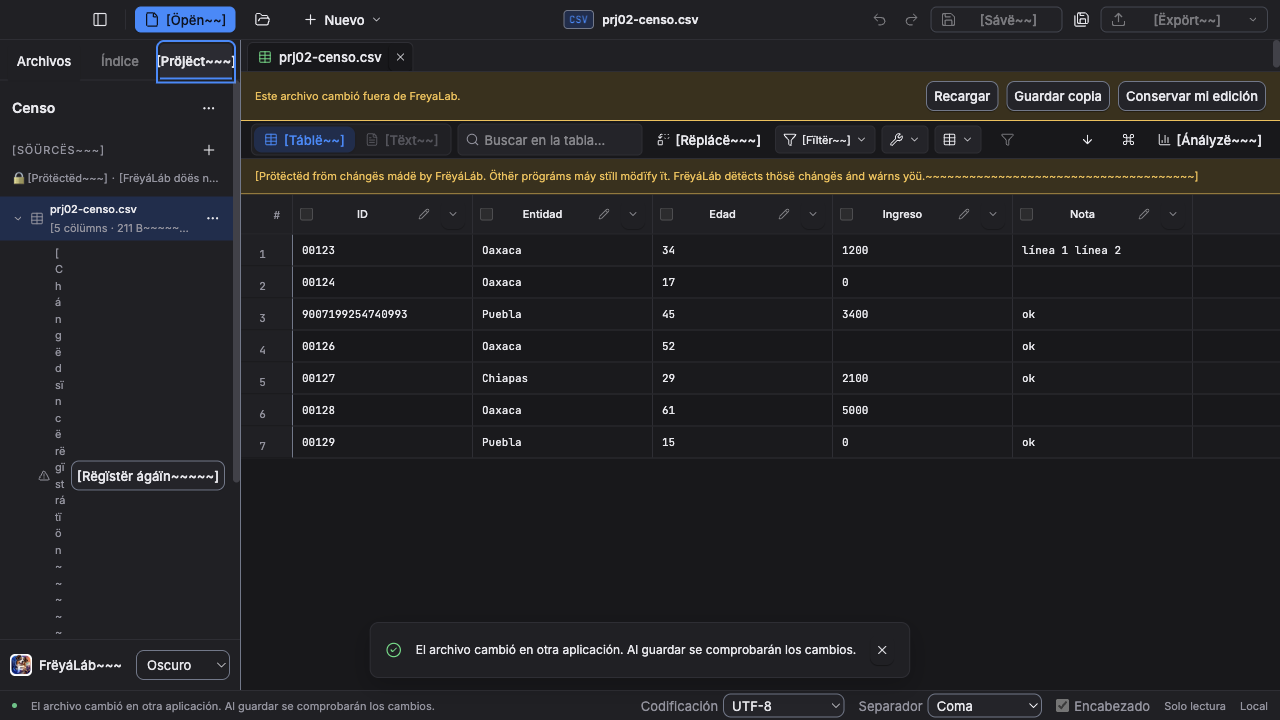
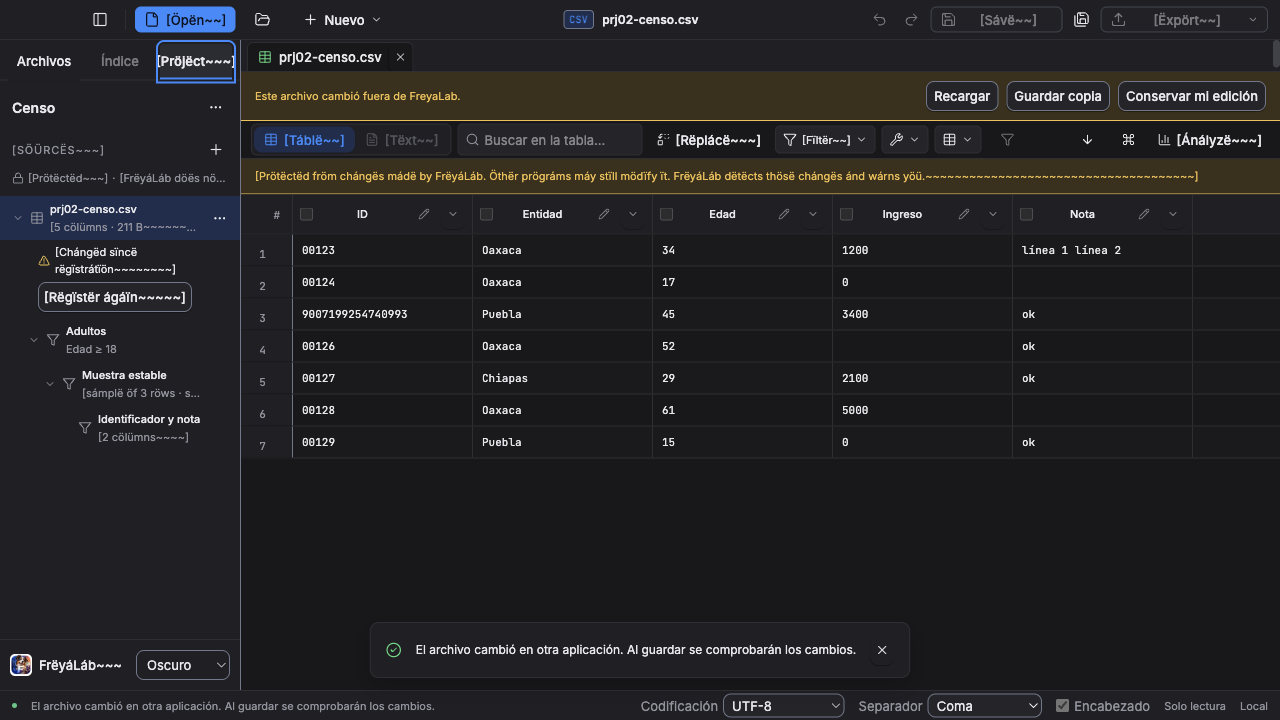
fix(proyectos): alinear el menú y aclarar avisos y tamaños del árbol (PRJ-01c)
- Los menús de ContextMenu alinean sus elementos a la izquierda. Los
  botones son inline-flex, así que text-align no bastaba.
- Las acciones con aria-disabled se ven atenuadas y sin hover; siguen
  siendo enfocables y leyendo su motivo.
- El candado de la protección usa el icono lock de Lucide en vez del emoji.
- El aviso de una fuente cambiada o ausente lleva el icono en color de
  advertencia y el texto normal. A 240 px el texto cabe en una línea y
  el botón pasa debajo.
- El detalle de una fuente muestra un tamaño legible (211 B, 1.2 kB,
  34.5 MB, 1.1 GB) con formatBytes compartido y su prueba.
- El resumen de un conjunto empieza con mayúscula («Muestra de 3 filas»).
- Capturas C12 regeneradas con estos cambios.

Pruebas en macOS ARM: npm run check; vitest i18n, i18n-audit e icons
(51); E2E project*, csv-text y seg-csv-text (90), sin reintentos.

Changed region(s): [[0.0312, 0.1222, 0.1875, 0.6722], [0.0, 0.2444, 0.0625, 0.275]]

diff --git a/src/renderer/components/ProjectPanel.svelte b/src/renderer/components/ProjectPanel.svelte
@@ -1,6 +1,6 @@
 <script lang="ts">
  import {onMount,tick} from 'svelte'
- import {t,plural,formatNumber,getUILanguage} from '../lib/i18n.svelte'
+ import {t,plural,formatNumber,formatBytes,getUILanguage} from '../lib/i18n.svelte'
  import type {ProjectInfo,ProjectSourceView} from '../../shared/project'
  import type {ProjectRecipeView} from '../../shared/project-recipes'
  import {subsetSummary} from '../lib/subset-summary'
@@ -34,7 +34,8 @@
  const busyReason=()=>busy?t('ui.reason.busy'):''
  const sourceOf=(node:Node)=>isSource(node)?node:sources.find(source=>source.id===node.rootSourceId)
  const sourceDependents=(id:string)=>recipes.filter(recipe=>recipe.rootSourceId===id)
- const detail=(node:Node)=>isSource(node)?plural('project.tree.sourceDetail',node.columnCount,{bytes:formatNumber(node.bytes)})+(node.external?' · '+t('project.source.status.external'):''):subsetSummary(node.steps,getUILanguage())
+ const capitalize=(text:string)=>text.charAt(0).toLocaleUpperCase()+text.slice(1)
+ const detail=(node:Node)=>isSource(node)?plural('project.tree.sourceDetail',node.columnCount,{size:formatBytes(node.bytes)})+(node.external?' · '+t('project.source.status.external'):''):capitalize(subsetSummary(node.steps,getUILanguage()))
  function nodeProblem(node:Node){
   if(problem?.key===keyOf(node))return problem.message
   if(isSource(node))return node.status==='changed'||node.status==='missing'?t('project.source.status.'+node.status):''
@@ -116,7 +117,7 @@
  {#if problem?.key==='project'}<p class="header-message" role="alert">{problem.message}</p>{/if}
  {#if project.readonly}<p id="project-mutation-reason" class="header-message" role="status">{mutationReason}</p>{/if}
  <h3 class="sources-heading"><span>{t('project.sources')}</span><button class="icon-button" type="button" onclick={onadd} disabled={busy||project.readonly} aria-label={t('project.source.add')} title={mutationReason||t('project.source.add')} aria-describedby={project.readonly?'project-mutation-reason':undefined}><Icon name="plus" size={16}/></button></h3>
- <p class="protection-note" title={t('project.source.protected')}><span aria-hidden="true">🔒</span><span>{t('project.source.badge')}</span><span aria-hidden="true">·</span><span class="truncate">{t('project.tree.protection')}</span></p>
+ <p class="protection-note" title={t('project.source.protected')}><Icon name="lock" size={12}/><span>{t('project.source.badge')}</span><span aria-hidden="true">·</span><span class="truncate">{t('project.tree.protection')}</span></p>
  {#if !sources.length}<p class="header-message">{t('project.noSources')}</p>{/if}
  {#if sources.length||unavailable.length}<div role="tree" aria-label={t('project.tree.label')}>
   {@render nodeList(sources,1)}
@@ -162,6 +163,6 @@
 {/snippet}
 
 <style>
- .project-panel{padding:12px 0;overflow:auto;min-width:0}.project-header{display:flex;align-items:center;gap:6px;margin:0 12px 8px;min-width:0}h2{font-size:14px;font-weight:600;margin:0;white-space:nowrap;overflow:hidden;text-overflow:ellipsis;flex:1;min-width:0}.icon-button{width:24px;height:24px;flex:none;padding:0;font-size:20px;line-height:1}.sources-heading{display:flex;align-items:center;justify-content:space-between;gap:6px;margin:12px 12px 5px;font-size:11px;letter-spacing:.08em;text-transform:uppercase;color:var(--muted)}.protection-note{display:flex;align-items:center;gap:4px;margin:0 12px 10px;font-size:11px;color:var(--muted);min-width:0}.header-message{margin:6px 12px;font-size:12px;overflow-wrap:anywhere}.unavailable-heading{margin:12px;font-size:11px;color:var(--muted)}.project-tree-item{min-width:0;outline:none}.project-tree-row{min-height:44px;min-width:0;padding-top:4px;padding-bottom:4px;padding-right:8px;gap:6px}.node-copy{display:flex;flex-direction:column;min-width:0;flex:1;gap:2px}.node-name{font-weight:500;display:block}.node-detail{font-size:11px;color:var(--muted);display:block}.node-more{visibility:hidden}.project-tree-row:hover .node-more,.project-tree-row:focus-within .node-more,.project-tree-item:focus>.project-tree-row .node-more,.project-tree-item.selected>.project-tree-row .node-more{visibility:visible}.project-tree-row:hover{background:var(--hover)}.project-tree-item.selected>.project-tree-row{background:var(--tint)}.project-tree-item:focus-visible>.project-tree-row{outline:2px solid var(--accent);outline-offset:-2px}.node-problem{display:flex;align-items:center;gap:5px;flex-wrap:wrap;margin:4px 8px 6px 0;font-size:11px;color:var(--muted);overflow-wrap:anywhere}.node-problem span{flex:1;min-width:0}.node-problem button,.node-progress button{font-size:11px;padding:3px 5px}.node-progress{padding-right:10px;font-size:11px;color:var(--muted)}.node-progress progress{width:100%}.node-progress p{margin:4px 0}.rename-form{min-width:0;flex:1}.rename-form input{min-width:0;width:100%;padding:3px 5px;font-size:12px}.rename-error{font-size:11px;color:var(--danger);margin:4px 0;overflow-wrap:anywhere}.project-menu-item{width:100%;text-align:left}.menu-reason{font-size:11px;color:var(--muted);padding:0 7px 6px;margin:0;overflow-wrap:anywhere}.menu-danger{color:var(--danger)}.menu-separator{height:1px;flex:none;background:var(--border);margin:4px}.actions{display:flex;flex-wrap:wrap;gap:8px;margin:8px 0}dialog{max-width:min(520px,90vw);border:1px solid var(--border);border-radius:var(--radius-control);padding:16px;background:var(--panel);color:var(--text)}dialog::backdrop{background:#0006}
+ .project-panel{padding:12px 0;overflow:auto;min-width:0}.project-header{display:flex;align-items:center;gap:6px;margin:0 12px 8px;min-width:0}h2{font-size:14px;font-weight:600;margin:0;white-space:nowrap;overflow:hidden;text-overflow:ellipsis;flex:1;min-width:0}.icon-button{width:24px;height:24px;flex:none;padding:0;font-size:20px;line-height:1}.sources-heading{display:flex;align-items:center;justify-content:space-between;gap:6px;margin:12px 12px 5px;font-size:11px;letter-spacing:.08em;text-transform:uppercase;color:var(--muted)}.protection-note{display:flex;align-items:center;gap:4px;margin:0 12px 10px;font-size:11px;color:var(--muted);min-width:0}.header-message{margin:6px 12px;font-size:12px;overflow-wrap:anywhere}.unavailable-heading{margin:12px;font-size:11px;color:var(--muted)}.project-tree-item{min-width:0;outline:none}.project-tree-row{min-height:44px;min-width:0;padding-top:4px;padding-bottom:4px;padding-right:8px;gap:6px}.node-copy{display:flex;flex-direction:column;min-width:0;flex:1;gap:2px}.node-name{font-weight:500;display:block}.node-detail{font-size:11px;color:var(--muted);display:block}.node-more{visibility:hidden}.project-tree-row:hover .node-more,.project-tree-row:focus-within .node-more,.project-tree-item:focus>.project-tree-row .node-more,.project-tree-item.selected>.project-tree-row .node-more{visibility:visible}.project-tree-row:hover{background:var(--hover)}.project-tree-item.selected>.project-tree-row{background:var(--tint)}.project-tree-item:focus-visible>.project-tree-row{outline:2px solid var(--accent);outline-offset:-2px}.node-problem{display:flex;align-items:center;gap:5px;flex-wrap:wrap;margin:4px 8px 6px 0;font-size:11px;color:var(--text);overflow-wrap:anywhere}.node-problem>:global(.icon){color:var(--warning)}.node-problem span{flex:1 1 10em;min-width:0}.node-problem button,.node-progress button{font-size:11px;padding:3px 5px}.node-progress{padding-right:10px;font-size:11px;color:var(--muted)}.node-progress progress{width:100%}.node-progress p{margin:4px 0}.rename-form{min-width:0;flex:1}.rename-form input{min-width:0;width:100%;padding:3px 5px;font-size:12px}.rename-error{font-size:11px;color:var(--danger);margin:4px 0;overflow-wrap:anywhere}.project-menu-item{width:100%;text-align:left}.menu-reason{font-size:11px;color:var(--muted);padding:0 7px 6px;margin:0;overflow-wrap:anywhere}.menu-danger{color:var(--danger)}.menu-separator{height:1px;flex:none;background:var(--border);margin:4px}.actions{display:flex;flex-wrap:wrap;gap:8px;margin:8px 0}dialog{max-width:min(520px,90vw);border:1px solid var(--border);border-radius:var(--radius-control);padding:16px;background:var(--panel);color:var(--text)}dialog::backdrop{background:#0006}
  @media(forced-colors:active){.project-tree-item.selected>.project-tree-row{background:SelectedItem;color:SelectedItemText}.project-tree-item:focus-visible>.project-tree-row{outline-color:Highlight}.menu-danger{color:CanvasText}}
 </style>

diff --git a/tests/i18n.test.ts b/tests/i18n.test.ts
@@ -1,7 +1,7 @@
 import {afterEach,describe,it,expect,vi} from 'vitest'
 import es from '../src/shared/i18n/es.json'
 import en from '../src/shared/i18n/en.json'
-import {t,plural,formatNumber,formatDate,formatList,getLanguage,setLanguage,resolveLanguage} from '../src/shared/i18n'
+import {t,plural,formatNumber,formatBytes,formatDate,formatList,getLanguage,setLanguage,resolveLanguage} from '../src/shared/i18n'
 
 afterEach(()=>{setLanguage('es');vi.unstubAllEnvs();vi.restoreAllMocks()})
 describe('I18N-01 · catálogos y traducción',()=>{
@@ -59,6 +59,7 @@ describe('I18N-01 · resolución del idioma',()=>{
 describe('I18N-01 · plural y formato regional',()=>{
  it.each([['es',0,'0 filas'],['es',1,'1 fila'],['es',2,'2 filas'],['en',0,'0 rows'],['en',1,'1 row'],['en',2,'2 rows']] as const)('%s / %d',(language,count,expected)=>{setLanguage(language);expect(plural('filas',count)).toBe(expected)})
  it.each([['es',1234,'1,234 filas'],['es',1000000,'1,000,000 filas'],['en',1000000,'1,000,000 rows']] as const)('miles/millones %s/%d usan plural y formato regional',(language,count,expected)=>{setLanguage(language);expect(plural('filas',count)).toBe(expected)})
+ it.each([['es',211,'211 B'],['en',211,'211 B'],['es',1234,'1.2 kB'],['es',34_500_000,'34.5 MB'],['es',1_073_741_824,'1.1 GB'],['en',1_500_000,'1.5 MB']] as const)('formatBytes %s/%d',(language,value,expected)=>{setLanguage(language);expect(formatBytes(value)).toBe(expected)})
  it('no usa el idioma del sistema para números, fechas o listas',()=>{
   const value=new Date('2026-10-28T12:30:00Z'),options={dateStyle:'long',timeZone:'UTC'} as const
   setLanguage('es');expect(formatNumber(1234.56)).toBe(new Intl.NumberFormat('es-MX').format(1234.56));expect(formatDate(value,options)).toBe(new Intl.DateTimeFormat('es-MX',options).format(value));expect(formatList(['a','b'])).toBe('a y b')

diff --git a/src/shared/i18n/index.ts b/src/shared/i18n/index.ts
@@ -31,5 +31,7 @@ export function plural(key:string,count:number,parameters:TranslationParameters=
  return t(`${key}.${form}`,{...parameters,count:formatNumber(count,undefined,locale)},locale)
 }
 export function formatNumber(value:number,options?:Intl.NumberFormatOptions,locale:Language=language):string {return new Intl.NumberFormat(locales[locale],options).format(value)}
+// Unidades decimales, como Finder y el Explorador en su vista de tamaño; por debajo de 1 kB, «211 B» (Intl diría «211 byte» en inglés).
+export function formatBytes(value:number,locale:Language=language):string {if(value<1e3)return formatNumber(value,undefined,locale)+' B';const[unit,base]:[string,number]=value>=1e9?['gigabyte',1e9]:value>=1e6?['megabyte',1e6]:['kilobyte',1e3];return formatNumber(value/base,{style:'unit',unit,unitDisplay:'short',maximumFractionDigits:1},locale)}
 export function formatDate(value:Date|number,options?:Intl.DateTimeFormatOptions,locale:Language=language):string {return new Intl.DateTimeFormat(locales[locale],options).format(value)}
 export function formatList(values:readonly string[],options?:Intl.ListFormatOptions,locale:Language=language):string {return new Intl.ListFormat(locales[locale],options).format(values)}

diff --git a/src/renderer/lib/i18n.svelte.ts b/src/renderer/lib/i18n.svelte.ts
@@ -6,5 +6,6 @@ export function getUILanguage():shared.Language {return language}
 export function t(key:string,parameters:shared.TranslationParameters={}):string {return shared.t(key,parameters,language)}
 export function plural(key:string,count:number,parameters:shared.TranslationParameters={}):string {return shared.plural(key,count,parameters,language)}
 export function formatNumber(value:number,options?:Intl.NumberFormatOptions):string {return shared.formatNumber(value,options,language)}
+export function formatBytes(value:number):string {return shared.formatBytes(value,language)}
 export function formatDate(value:Date|number,options?:Intl.DateTimeFormatOptions):string {return shared.formatDate(value,options,language)}
 export function formatList(values:readonly string[],options?:Intl.ListFormatOptions):string {return shared.formatList(values,options,language)}

diff --git a/src/renderer/lib/icons.ts b/src/renderer/lib/icons.ts
@@ -4,6 +4,7 @@
 // filter: Feather v4.29.2, MIT; https://github.com/feathericons/feather/blob/v4.29.2/icons/filter.svg
 export const icons={
  'filter':'<polygon points="22 3 2 3 10 12.46 10 19 14 21 14 12.46 22 3"/>',
+ 'lock':'<rect width="18" height="11" x="3" y="11" rx="2" ry="2"/> <path d="M7 11V7a5 5 0 0 1 10 0v4"/>',
  'panel-left':'<rect width="18" height="18" x="3" y="3" rx="2"/> <path d="M9 3v18"/>',
  'file':'<path d="M6 22a2 2 0 0 1-2-2V4a2 2 0 0 1 2-2h8a2.4 2.4 0 0 1 1.704.706l3.588 3.588A2.4 2.4 0 0 1 20 8v12a2 2 0 0 1-2 2z"/> <path d="M14 2v5a1 1 0 0 0 1 1h5"/>',
  'folder':'<path d="M20 20a2 2 0 0 0 2-2V8a2 2 0 0 0-2-2h-7.9a2 2 0 0 1-1.69-.9L9.6 3.9A2 2 0 0 0 7.93 3H4a2 2 0 0 0-2 2v13a2 2 0 0 0 2 2Z"/>',

diff --git a/src/renderer/components/ContextMenu.svelte b/src/renderer/components/ContextMenu.svelte
@@ -11,3 +11,9 @@
 <div bind:this={menu} class="range-context" role="menu" aria-label={label} tabindex="-1" style:left={`${left}px`} style:top={`${top}px`} onkeydown={key}>
  {@render children()}
 </div>
+<style>
+ /* Los menús se leen de un vistazo alineados a la izquierda; lo no disponible se ve como desactivado aunque siga siendo enfocable. */
+ .range-context :global([role="menuitem"]){justify-content:flex-start;text-align:left}
+ .range-context :global([role="menuitem"][aria-disabled="true"]){opacity:.45;cursor:default}
+ .range-context :global([role="menuitem"][aria-disabled="true"]:hover){background:transparent}
+</style>
